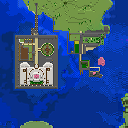
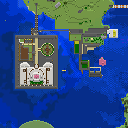
マップを更新

diff --git a/index.html b/index.html
@@ -118,8 +118,8 @@
     const VERSION = "?ver=1.3"
     const MAPNUMLIST = [
       [-1, -2], [-1, -1], [-1, 0], [-1, 1], [-1, 2],
-      [0, -2], [0, -1], [0, 0], [0, 1], [0, 2],
-      [1, -7], [1, -6], [1, -5], [1, -4], [1, -3], [1, -2], [1, -1], [1, 0], [1, 1], [1, 2],
+      [0, -2], [0, -1], [0, 0], [0, 1], [0, 2],[0, 3],
+      [1, -7], [1, -6], [1, -5], [1, -4], [1, -3], [1, -2], [1, -1], [1, 0], [1, 1], [1, 2], [1, 3],
       [2, -6], [2, 0], [2, 1],
       [3, -1], [3, 0]
     ]
@@ -696,6 +696,15 @@
         title: "刃牙の家",
         explane: "制作者: ハンもザ？(不明)",
         image: "images/baki.jpeg"
+      },
+      map
+    );
+    putMarker(
+      470, 1420,
+      {
+        title: "あかみジェットコースター",
+        explane: "座標: 1681 72 716\n制作者: あかみ",
+        image: "images/akamijet.png"
       },
       map
     );
